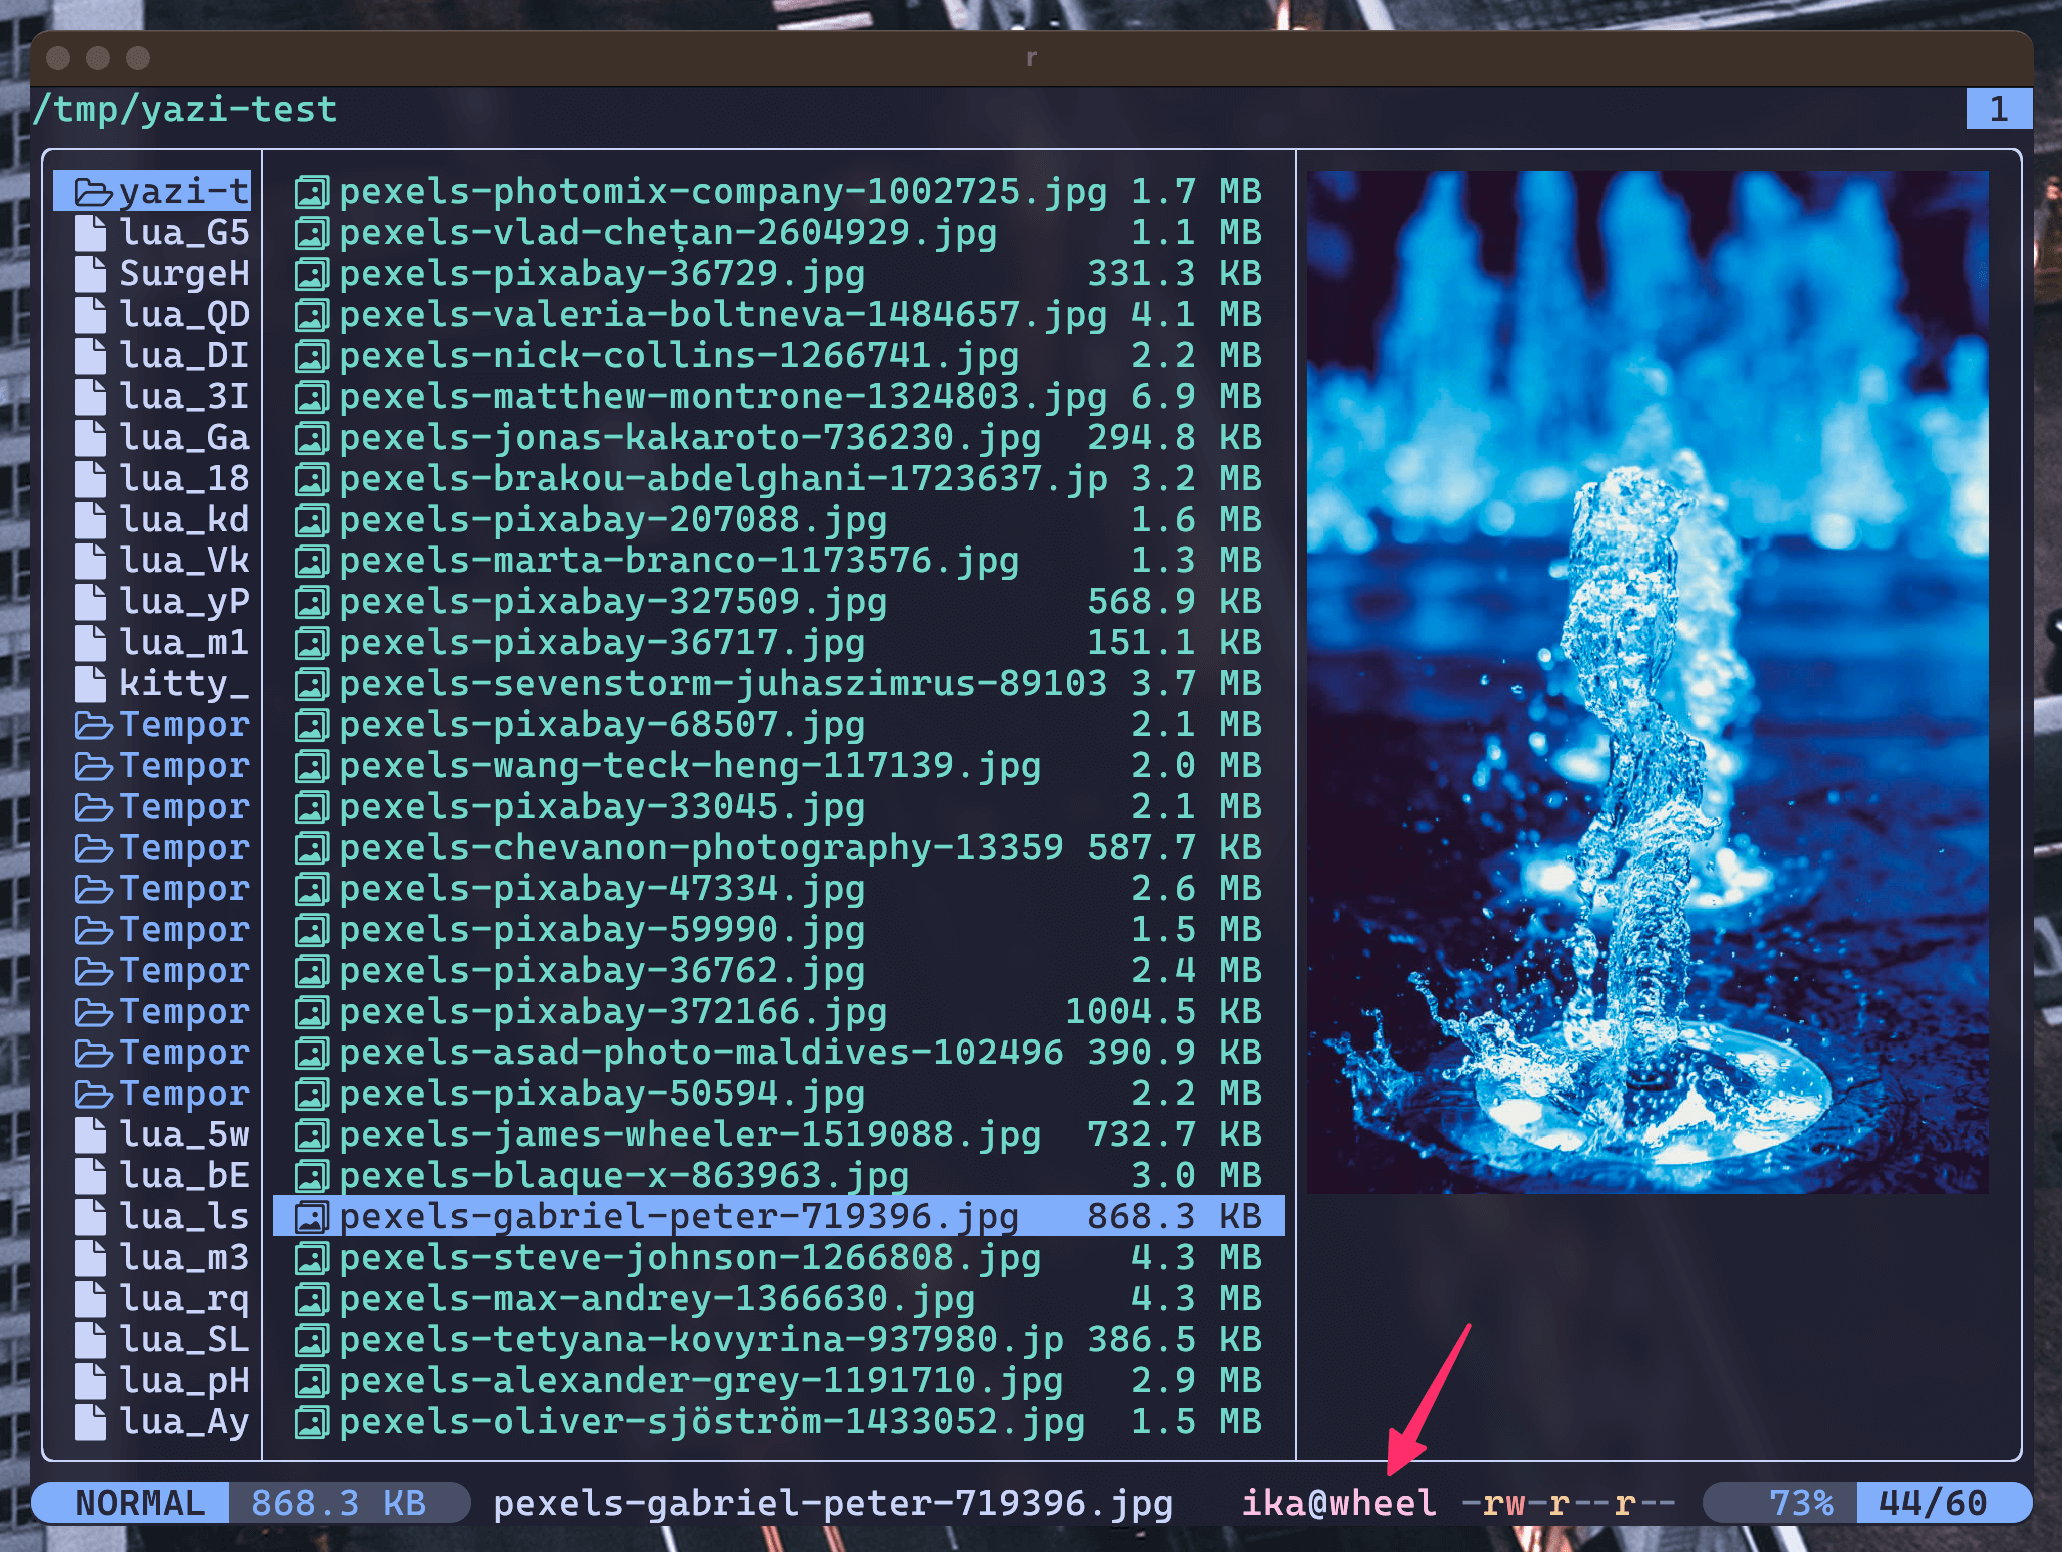
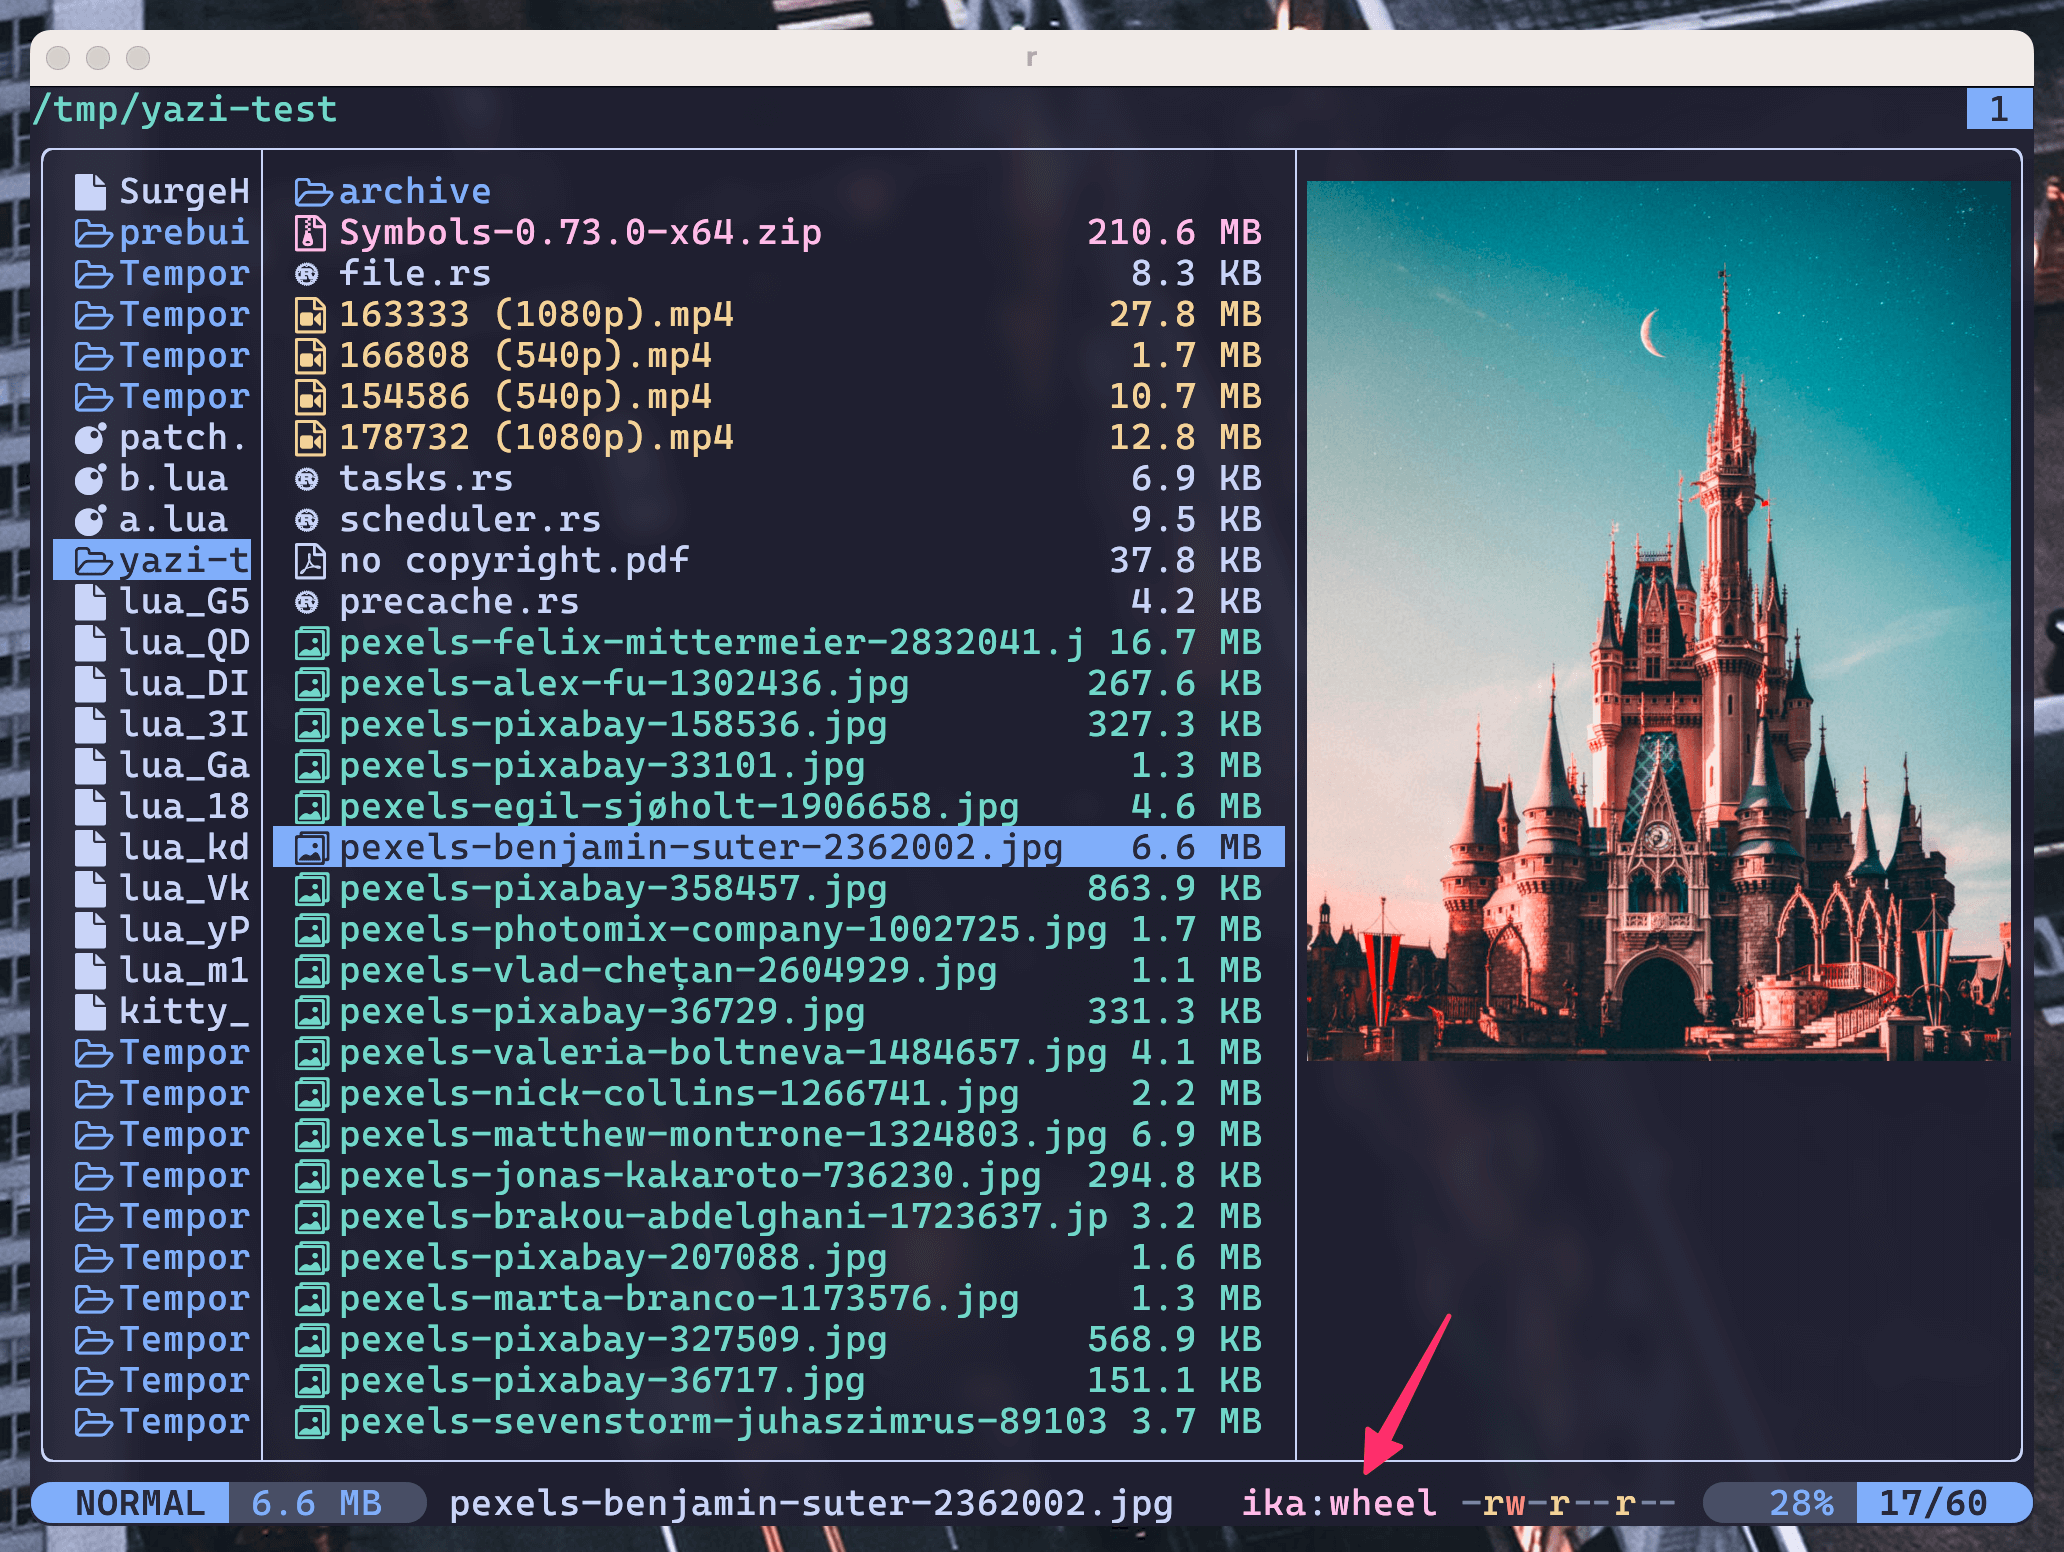
docs: change owner display style

diff --git a/docs/tips.md b/docs/tips.md
@@ -180,7 +180,7 @@ copy this method to your `~/.config/yazi/init.lua`, and apply the following patc
 +
 +	return ui.Line {
 +		ui.Span(ya.user_name(h.cha.uid) or tostring(h.cha.uid)):fg("magenta"),
-+		ui.Span("@"),
++		ui.Span(":"),
 +		ui.Span(ya.group_name(h.cha.gid) or tostring(h.cha.gid)):fg("magenta"),
 +		ui.Span(" "),
 +	}
